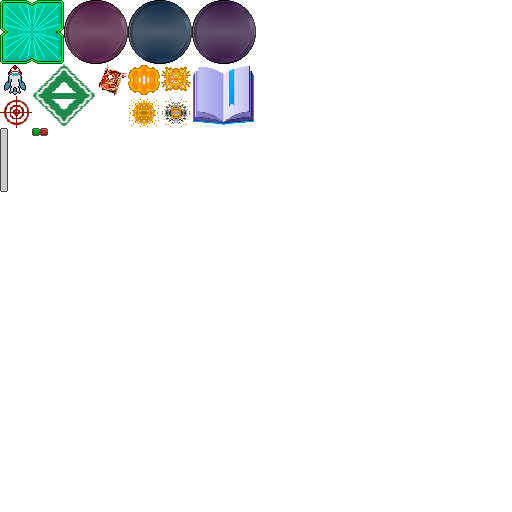
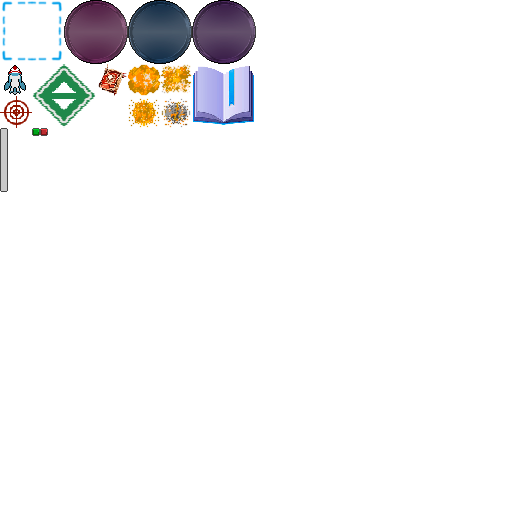
Обновление спрайтов.

Changed region(s): [[0.25, 0.125, 0.375, 0.25], [0.0, 0.0, 0.125, 0.125]]

diff --git a/core/src/com/bindereq/game/actors/Letter.java b/core/src/com/bindereq/game/actors/Letter.java
@@ -69,14 +69,10 @@ public class Letter extends Actor {
     public void draw(Batch batch, float parentAlpha) {
         super.draw(batch, parentAlpha);
 
-        batch.setColor(0, 32.0f / 255, 32f / 255, 0.4f);
-        // batch.draw(back, getX() + Setup.shadow_x + (int) (Math.random() * 8), getY() + Setup.shadow_y + (int) (Math.random() * 8), getOriginX(), getOriginY(), getWidth(), getHeight(), 0.9f, 0.9f, getRotation());
-        batch.draw(letter, getX() + Setup.shadow_x + (int) (Math.random() * 8), getY() + Setup.shadow_y + (int) (Math.random() * 8), getOriginX(), getOriginY(), getWidth(), getHeight(), 0.9f, 0.9f, getRotation());
+        font.getManropeBold22px().setColor(0, 32.0f / 255, 32f / 255, 0.4f);
+        font.getManropeBold22px().draw(batch, chr, getX() + chr_pos_X + Setup.shadow_x / 2, getY() + Setup.shadow_y / 2);
 
-        batch.setColor(1, 1, 1, 1);
-        // batch.draw(back, getX(), getY(), getOriginX(), getOriginY(), getWidth(), getHeight(), getScaleX(), getScaleY(), getRotation());
-        batch.draw(letter, getX(), getY(), getOriginX(), getOriginY(), getWidth(), getHeight(), getScaleX(), getScaleY(), getRotation());
-
+        font.getManropeBold22px().setColor(1, 1, 1, 1);
         font.getManropeBold22px().draw(batch, chr, getX() + chr_pos_X, getY());
 
     }

diff --git a/core/src/com/bindereq/game/actors/Explosions.java b/core/src/com/bindereq/game/actors/Explosions.java
@@ -37,7 +37,7 @@ public class Explosions extends Actor {
     public void act(float delta) {
         super.act(delta);
         time += delta;
-        if (time > 0.12f) {
+        if (time > 0.08f) {
             frame += 1;
             time = 0;
         }
@@ -69,7 +69,7 @@ public class Explosions extends Actor {
         // batch.draw(back, getX() + Setup.shadow_x + (int) (Math.random() * 8), getY() + Setup.shadow_y + (int) (Math.random() * 8), getOriginX(), getOriginY(), getWidth(), getHeight(), 0.9f, 0.9f, getRotation());
         batch.draw(moves[moves.length - 1 - frame], getX() - getWidth() / 2 + Setup.shadow_x, getY() - getHeight() / 2 + Setup.shadow_y, getOriginX(), getOriginY(), getWidth() * 2, getHeight() * 2, getScaleX(), getScaleY(), getRotation());
 
-        batch.setColor(0.9f, 0.2f, 0.7f, 0.7f);
+        batch.setColor(0.6f, 0.6f, 0.9f, 0.7f);
         batch.draw(moves[moves.length - 1 - frame], getX() - getWidth() / 2, getY() - getHeight() / 2, getOriginX(), getOriginY(), getWidth() * 2, getHeight() * 2, getScaleX(), getScaleY(), getRotation());
 
         batch.setColor(1, 1, 1, 1);
